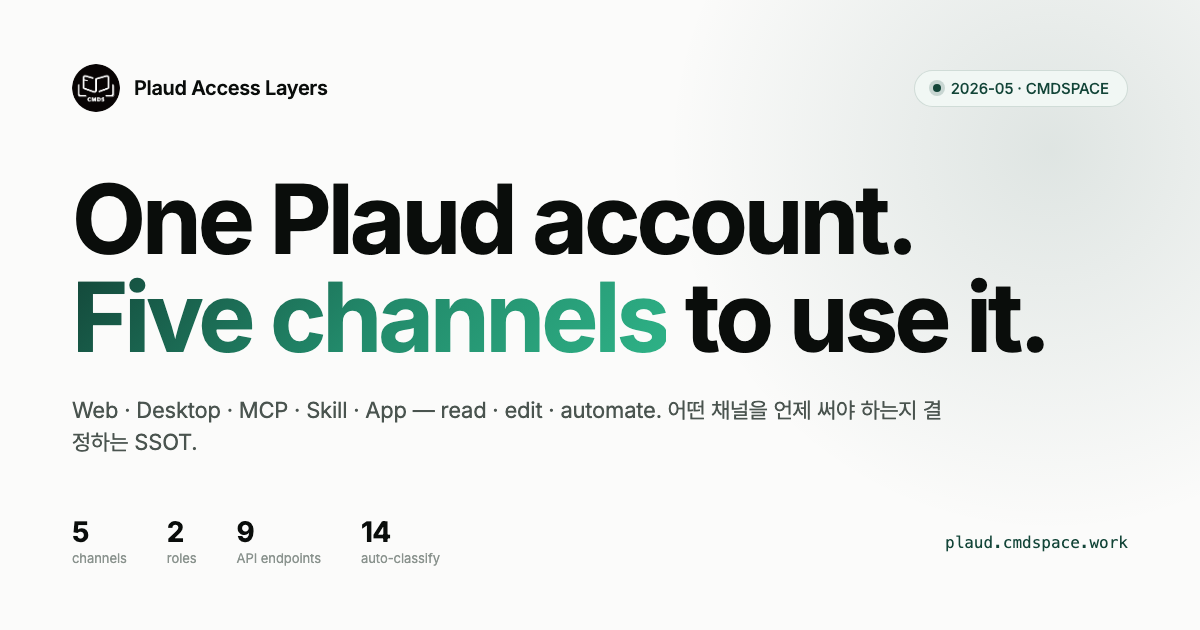
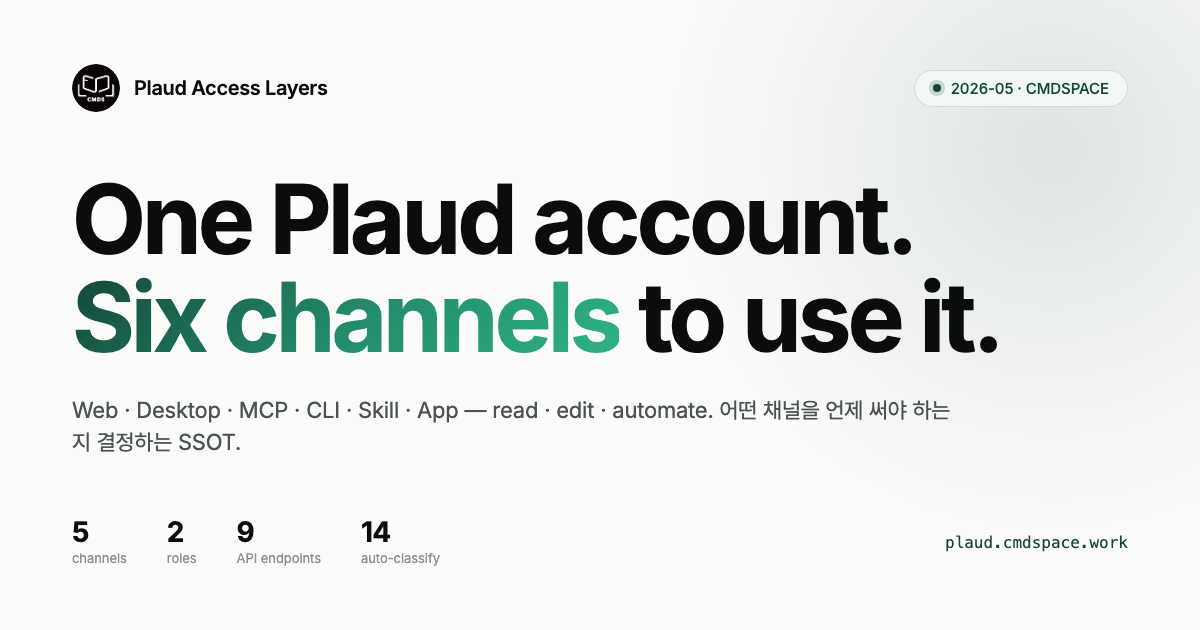
web: rebuild plaud.cmdspace.work as the 6-channel guide
랜딩이 2026-06-15 기준 5축으로 멈춰 있었다. SSOT(docs/PLAUD-ACCESS-LAYERS.md)와
같은 사실로 맞추고, 돌아온 방문자가 무엇이 바뀌었는지 알 수 있게 변경점 절을 추가.

- 6채널: 채널 표에 공식 CLI 행 삽입(NEW 배지), MCP 행에 2026-09 확장 반영,
  App 행에 v0.8 2단계 자동 폴더링. 히어로·능력 매트릭스·라우팅·워크플로우 갱신
- "What changed" 절 신설: 08-24 CLI · 09-02 MCP 확장 · 09-03 v0.8,
  그리고 `plaud` 이름 충돌 경고 블록 (전역=공식 CLI, `uv run plaud`=이 앱)
- 링크: 전체 비교표(GitHub SSOT) CTA 버튼, 푸터에 CLI docs·GitHub 추가.
  공식 문서 URL을 현행 docs.plaud.ai/plaud-mcp-cli/… 로 교체
- OG 이미지·타이틀·메타 설명 재생성 (5축 → 6채널)

버그 수정 2건:
- 히어로 통계가 "5 channels / 9 API endpoints / 14 auto-classify" 로 낡아 있어
  6 / 2 roles / 4 official / 3 can write 로 교체
- .teaser-code 에 white-space 속성이 없어 코드 블록 줄바꿈이 전부 뭉개져
  한 문단으로 렌더되던 문제 → white-space: pre 추가 (기존부터 있던 버그)

Changed region(s): [[0.0617, 0.4222, 0.8942, 0.573], [0.2467, 0.6333, 0.8017, 0.6635], [0.0617, 0.6635, 0.185, 0.7238]]

diff --git a/web/index.html b/web/index.html
@@ -3,32 +3,32 @@
 <head>
     <meta charset="UTF-8">
     <meta name="viewport" content="width=device-width, initial-scale=1.0">
-    <title>Plaud 5축 가이드</title>
-    <meta name="description" content="Plaud Cloud에 접근하는 다섯 가지 채널 — Web, Desktop, MCP, Skill, App — 의 능력 비교와 채널 선택 가이드. Capture vs Manage 구분과 실전 워크플로우 패턴 포함.">
+    <title>Plaud 6채널 가이드</title>
+    <meta name="description" content="Plaud Cloud를 다루는 여섯 가지 채널 — Web · Desktop · MCP · CLI · Skill · App — 의 능력 비교와 채널 선택 가이드. Capture vs Manage 구분, 채널별 천장, 실전 워크플로우 패턴 포함.">
     <link rel="icon" type="image/png" href="/assets/logos/cmds-logo-round.png">
     <link rel="apple-touch-icon" href="/assets/logos/cmds-logo-round.png">
 
     <!-- Open Graph (1200×630 dedicated OG image) -->
     <meta property="og:type" content="website">
     <meta property="og:site_name" content="CMDSPACE">
-    <meta property="og:title" content="Plaud 5축 가이드">
-    <meta property="og:description" content="Plaud Cloud에 접근하는 다섯 가지 채널 — Web, Desktop, MCP, Skill, App — 의 능력 비교와 채널 선택 가이드. Capture vs Manage 구분과 실전 워크플로우 패턴 포함.">
+    <meta property="og:title" content="Plaud 6채널 가이드">
+    <meta property="og:description" content="Plaud Cloud를 다루는 여섯 가지 채널 — Web · Desktop · MCP · CLI · Skill · App — 의 능력 비교와 채널 선택 가이드. Capture vs Manage 구분, 채널별 천장, 실전 워크플로우 패턴 포함.">
     <meta property="og:url" content="https://plaud.cmdspace.work">
     <meta property="og:image" content="https://plaud.cmdspace.work/assets/og/og-web.png">
     <meta property="og:image:secure_url" content="https://plaud.cmdspace.work/assets/og/og-web.png">
     <meta property="og:image:type" content="image/png">
     <meta property="og:image:width" content="1200">
     <meta property="og:image:height" content="630">
-    <meta property="og:image:alt" content="Plaud 5축 가이드">
+    <meta property="og:image:alt" content="Plaud 6채널 가이드">
     <meta property="og:locale" content="ko_KR">
     <meta property="og:locale:alternate" content="en_US">
 
     <!-- Twitter / X -->
     <meta name="twitter:card" content="summary_large_image">
-    <meta name="twitter:title" content="Plaud 5축 가이드">
-    <meta name="twitter:description" content="Plaud Cloud에 접근하는 다섯 가지 채널 — Web, Desktop, MCP, Skill, App — 의 능력 비교와 채널 선택 가이드. Capture vs Manage 구분과 실전 워크플로우 패턴 포함.">
+    <meta name="twitter:title" content="Plaud 6채널 가이드">
+    <meta name="twitter:description" content="Plaud Cloud를 다루는 여섯 가지 채널 — Web · Desktop · MCP · CLI · Skill · App — 의 능력 비교와 채널 선택 가이드. Capture vs Manage 구분, 채널별 천장, 실전 워크플로우 패턴 포함.">
     <meta name="twitter:image" content="https://plaud.cmdspace.work/assets/og/og-web.png">
-    <meta name="twitter:image:alt" content="Plaud 5축 가이드">
+    <meta name="twitter:image:alt" content="Plaud 6채널 가이드">
 
     <link rel="stylesheet" href="https://cdn.jsdelivr.net/gh/orioncactus/pretendard@v1.3.9/dist/web/static/pretendard.min.css" />
 
@@ -722,6 +722,8 @@
             line-height: 1.7;
             color: #dfe5e2;
             overflow-x: auto;
+            white-space: pre;
+            -webkit-overflow-scrolling: touch;
         }
         .teaser-code .yaml-key { color: #5bc79d; }
         .teaser-code .yaml-str { color: #d9c7a0; }
@@ -876,13 +878,14 @@
 <header class="site-header">
     <a class="brand" href="/">
         <img class="brand-mark" src="/assets/logos/cmds-logo-round.png" alt="CMDS" width="28" height="28">
-        <span>Plaud 5축 가이드</span>
+        <span>Plaud 6채널 가이드</span>
     </a>
     <nav class="header-nav">
-        <a href="#channels">5 Channels</a>
+        <a href="#channels">6 Channels</a>
         <a href="#roles">Capture · Manage</a>
         <a href="#routing">Routing</a>
         <a href="#workflows">Workflows</a>
+        <a href="#changelog"><span class="en-only">What's new</span><span class="ko-only">변경점</span></a>
         <a href="https://web.plaud.ai" target="_blank" rel="noopener">Plaud Web ↗</a>
     </nav>
     <div class="header-actions">
@@ -900,20 +903,20 @@
     <div class="hero-bg"></div>
     <div class="hero-inner">
         <div class="hero-eyebrow">
-            <span class="en-only">Plaud Access Layers · Updated 2026-06-15</span>
-            <span class="ko-only">Plaud 접근 5축 · 2026-06-15 업데이트</span>
+            <span class="en-only">Plaud Access Layers · Updated 2026-09-03</span>
+            <span class="ko-only">Plaud 접근 6채널 · 2026-09-03 업데이트</span>
         </div>
         <h1 class="hero-title">
-            <span class="en-only">One Plaud account.<br><span class="grad">Five channels</span> to use it.</span>
-            <span class="ko-only">하나의 Plaud 계정,<br><span class="grad">다섯 가지 채널</span>로 다루는 법.</span>
+            <span class="en-only">One Plaud account.<br><span class="grad">Six channels</span> to use it.</span>
+            <span class="ko-only">하나의 Plaud 계정,<br><span class="grad">여섯 가지 채널</span>로 다루는 법.</span>
         </h1>
         <p class="hero-lede">
-            <span class="en-only">Web · Desktop · MCP · Skill · App — each channel has a different ceiling on what you can read, edit, and automate. This page is the decision SSOT for picking the right one.</span>
-            <span class="ko-only">Web · Desktop · MCP · Skill · App — 각 채널마다 읽기·편집·자동화 가능 범위가 다릅니다. 어떤 채널을 언제 써야 하는지 결정하는 SSOT.</span>
+            <span class="en-only">Web · Desktop · MCP · CLI · Skill · App — each channel has a different ceiling on what you can read, edit, and automate. Plaud shipped an official CLI in August 2026, so read-only automation no longer needs reverse engineering. This page is the decision SSOT for picking the right door.</span>
+            <span class="ko-only">Web · Desktop · MCP · CLI · Skill · App — 각 채널마다 읽기·편집·자동화 가능 범위가 다릅니다. 2026년 8월 <strong>공식 CLI</strong>가 나오면서 읽기 전용 자동화는 더 이상 리버스 엔지니어링이 필요 없어졌습니다. 어떤 채널을 언제 써야 하는지 결정하는 SSOT.</span>
         </p>
         <div class="hero-cta">
             <a class="btn btn-primary" href="#channels">
-                <span class="en-only">See the 5 channels</span><span class="ko-only">5축 비교 보기</span>
+                <span class="en-only">See the 6 channels</span><span class="ko-only">6채널 비교 보기</span>
                 <svg width="14" height="14" viewBox="0 0 24 24" fill="none" stroke="currentColor" stroke-width="2.5" stroke-linecap="round"><path d="M5 12h14M13 6l6 6-6 6"/></svg>
             </a>
             <a class="btn btn-secondary" href="#routing">
@@ -927,10 +930,10 @@
         </div>
 
         <div class="hero-meta">
-            <div class="hero-meta-item"><div class="val">5</div><div class="lbl en-only">channels</div><div class="lbl ko-only">채널</div></div>
+            <div class="hero-meta-item"><div class="val">6</div><div class="lbl en-only">channels</div><div class="lbl ko-only">채널</div></div>
             <div class="hero-meta-item"><div class="val">2</div><div class="lbl en-only">roles</div><div class="lbl ko-only">역할</div></div>
-            <div class="hero-meta-item"><div class="val">9</div><div class="lbl en-only">API endpoints</div><div class="lbl ko-only">API 엔드포인트</div></div>
-            <div class="hero-meta-item"><div class="val">14</div><div class="lbl en-only">auto-classify</div><div class="lbl ko-only">자동 분류</div></div>
+            <div class="hero-meta-item"><div class="val">4</div><div class="lbl en-only">official</div><div class="lbl ko-only">공식 채널</div></div>
+            <div class="hero-meta-item"><div class="val">3</div><div class="lbl en-only">can write</div><div class="lbl ko-only">쓰기 가능</div></div>
         </div>
     </div>
 </section>
@@ -948,25 +951,25 @@
                 </h2>
             </div>
             <div class="idea-body">
-                <p class="en-only">After Plaud announced its official MCP server (2026-05-13), three more channels became visible: a public OAuth MCP, an unofficial bash skill, and a self-hosted Python·SwiftUI app that already wraps the web API. Add the official Web and Desktop apps, and you get <em>five</em>.</p>
-                <p class="en-only">They are not interchangeable. MCP is read-only. Skill exposes content MCP can't see (markMemo, highlight). The App is the only channel that creates folders, auto-classifies recordings with AI, searches across every transcript, organizes by tags, and pushes to Obsidian. Desktop is the only channel that can <em>record live meetings</em> from system audio.</p>
-                <p class="ko-only">2026-05-13 Plaud가 공식 MCP 서버를 발표하면서 세 가지 채널이 더 가시화됐습니다 — OAuth MCP, 비공식 bash 스킬, 그리고 web API를 직접 감싸는 자체 Python·SwiftUI 앱. 거기에 공식 Web·Desktop을 더하면 <em>다섯 축</em>이 됩니다.</p>
-                <p class="ko-only">이들은 서로 대체재가 아닙니다. MCP는 read-only. 스킬은 MCP가 못 보는 콘텐츠(markMemo, highlight)를 노출합니다. 앱은 폴더 생성·AI 자동 분류·전체 전사본 검색·태그 정리·Obsidian 송출이 가능한 유일한 채널. Desktop은 시스템 오디오로 <em>회의를 실시간 녹음</em>할 수 있는 유일한 채널입니다.</p>
+                <p class="en-only">Plaud opened its official MCP server in May 2026 and an official CLI in August. Around those sit an unofficial bash skill and a self-hosted Python·SwiftUI app that wrap the web API directly. Add the official Web and Desktop apps and you get <em>six</em> — four official, two of my own.</p>
+                <p class="en-only">They are not interchangeable, and the line that matters is not official-vs-unofficial but <em>read-vs-write</em>. MCP, the CLI and the Skill cannot change a single thing on the server. Only Web, Desktop and the App write — and only the App auto-classifies with AI, searches inside every transcript, organizes by tags and pushes to Obsidian. Desktop alone can <em>record a live meeting</em> from system audio.</p>
+                <p class="ko-only">Plaud는 2026년 5월 공식 MCP 서버를, 8월엔 공식 CLI를 열었습니다. 그 옆에 web API를 직접 감싸는 비공식 bash 스킬과 자체 Python·SwiftUI 앱이 있고, 공식 Web·Desktop을 더하면 <em>여섯 채널</em> — 공식 넷, 직접 만든 둘입니다.</p>
+                <p class="ko-only">이들은 서로 대체재가 아닙니다. 그리고 진짜 경계선은 공식이냐 아니냐가 아니라 <em>읽기냐 쓰기냐</em>입니다. MCP · CLI · 스킬은 서버의 어떤 것도 바꾸지 못합니다. 쓰는 건 Web · Desktop · 앱뿐이고, AI 자동 분류 · 전사본 전체 검색 · 태그 정리 · Obsidian 송출은 앱만 할 수 있습니다. 시스템 오디오로 <em>회의를 실시간 녹음</em>하는 건 Desktop만 가능합니다.</p>
             </div>
         </div>
     </div>
 </section>
 
-<!-- ARCHITECTURE — 5 CHANNELS -->
+<!-- ARCHITECTURE — 6 CHANNELS -->
 <section class="block" id="channels">
     <div class="block-inner reveal">
         <div class="block-eyebrow">
-            <span class="en-only">The 5 Channels</span>
-            <span class="ko-only">5축</span>
+            <span class="en-only">The 6 Channels</span>
+            <span class="ko-only">6채널</span>
         </div>
         <h2 class="block-title">
-            <span class="en-only">Five doors into the <span class="accent-word">same cloud</span>.</span>
-            <span class="ko-only">같은 클라우드로 들어가는 <span class="accent-word">다섯 개의 문</span>.</span>
+            <span class="en-only">Six doors into the <span class="accent-word">same cloud</span>.</span>
+            <span class="ko-only">같은 클라우드로 들어가는 <span class="accent-word">여섯 개의 문</span>.</span>
         </h2>
         <p class="block-lede">
             <span class="en-only">Each row shows where the channel lives, how it authenticates, and what its primary surface looks like. Tagged ✅ for official Plaud surfaces and ⚠ for unofficial reverse-engineered ones.</span>
@@ -996,13 +999,22 @@
                 <div class="file-precedence">3</div>
                 <div>
                     <div class="file-name"><code>MCP</code><span class="file-tag">✅ Official</span></div>
-                    <div class="file-desc en-only"><code>mcp__plaud__*</code> via Claude Code / Cursor / Zed — OAuth, read-only, 7 tools.</div>
-                    <div class="file-desc ko-only">Claude Code · Cursor · Zed 등에서 호출하는 <code>mcp__plaud__*</code> — OAuth, read-only, 7개 도구.</div>
+                    <div class="file-desc en-only"><code>mcp__plaud__*</code> via Claude Code / Cursor / Zed — OAuth, read-only, 7 tools. Quietly expanded in 2026-09: <code>get_transcript</code> gained a <code>block</code> parameter (polished transcript with <em>real speaker names</em>, outline, markMemo) with pagination, and <code>get_note</code> now returns every tab.</div>
+                    <div class="file-desc ko-only">Claude Code · Cursor · Zed 등에서 호출하는 <code>mcp__plaud__*</code> — OAuth, 읽기 전용, 7개 도구. 2026-09 조용히 확장: <code>get_transcript</code>에 <code>block</code> 파라미터(정제 전사 — <em>화자 실명</em> 포함 · 아웃라인 · markMemo)와 페이지네이션이, <code>get_note</code>에 탭 전량 반환이 추가됐습니다.</div>
                 </div>
                 <div class="file-audience">Manage (LLM)</div>
             </div>
             <div class="file-row">
                 <div class="file-precedence">4</div>
+                <div>
+                    <div class="file-name"><code>CLI</code><span class="file-tag">✅ Official</span><span class="file-tag" style="background: color-mix(in srgb, var(--cmds-green) 14%, transparent);">NEW · 2026-08</span></div>
+                    <div class="file-desc en-only"><code>@plaud-ai/cli</code> (npm, v0.3.11) — 13 commands on the <em>official developer API</em> (<code>platform.plaud.ai</code>), OAuth, read-only. The only official way to script Plaud from a terminal, cron job, or headless server.</div>
+                    <div class="file-desc ko-only"><code>@plaud-ai/cli</code> (npm, v0.3.11) — <em>공식 개발자 API</em>(<code>platform.plaud.ai</code>) 위의 13개 명령, OAuth, 읽기 전용. 터미널·크론·헤드리스 서버에서 Plaud를 스크립팅하는 <strong>유일한 공식 수단</strong>.</div>
+                </div>
+                <div class="file-audience">Manage (shell)</div>
+            </div>
+            <div class="file-row">
+                <div class="file-precedence">5</div>
                 <div>
                     <div class="file-name"><code>Skill</code><span class="file-tag" style="background: color-mix(in srgb, var(--cmds-green) 10%, transparent);">⚠ Unofficial</span></div>
                     <div class="file-desc en-only"><code>~/.claude/skills/plaud-cloud-tools/</code> — bash wrappers over the captured web cURL. Exposes markMemo · highlight that MCP can't.</div>
@@ -1011,11 +1023,11 @@
                 <div class="file-audience">Manage (CLI)</div>
             </div>
             <div class="file-row">
-                <div class="file-precedence">5</div>
+                <div class="file-precedence">6</div>
                 <div>
                     <div class="file-name"><code>App</code><span class="file-tag" style="background: color-mix(in srgb, var(--cmds-green) 10%, transparent);">⚠ Unofficial</span></div>
-                    <div class="file-desc en-only"><code>~/DEV/plaud-note-manager/</code> — Python CLI + SwiftUI macOS app. The only write-capable channel: folder CRUD, title &amp; server-transcript speaker rename, safe AI auto-classify (preview + undo), full-content search (FTS5, Korean substring), tag organization, multi-model AI summaries (Claude/Codex/Gemini/Grok via subscription), and Obsidian export.</div>
-                    <div class="file-desc ko-only"><code>~/DEV/plaud-note-manager/</code> — Python CLI + SwiftUI macOS 앱. 쓰기 권한을 가진 유일한 비공식 채널: 폴더 CRUD · 제목/서버 전사본 화자 변경 · 안전한 AI 자동 분류(미리보기·되돌리기) · 전체 내용 검색(FTS5, 한국어 부분 일치) · 태그 정리 · 멀티모델 AI 요약(Claude·Codex·Gemini·Grok 구독 활용) · Obsidian 송출.</div>
+                    <div class="file-desc en-only"><code>~/DEV/plaud-note-manager/</code> — Python CLI + SwiftUI macOS app. The only write-capable channel: folder CRUD, title &amp; server-transcript speaker rename, safe AI auto-classify (preview + undo), full-content search (FTS5, Korean substring), tag organization, multi-model AI summaries (Claude/Codex/Gemini/Grok via subscription), and Obsidian export. v0.8 (2026-09) made auto-foldering two-stage — deterministic rules first, an LLM arbitrating only low-confidence cases from a closed folder menu.</div>
+                    <div class="file-desc ko-only"><code>~/DEV/plaud-note-manager/</code> — Python CLI + SwiftUI macOS 앱. 쓰기 권한을 가진 유일한 비공식 채널: 폴더 CRUD · 제목/서버 전사본 화자 변경 · 안전한 AI 자동 분류(미리보기·되돌리기) · 전체 내용 검색(FTS5, 한국어 부분 일치) · 태그 정리 · 멀티모델 AI 요약(Claude·Codex·Gemini·Grok 구독 활용) · Obsidian 송출. v0.8(2026-09)에서 자동 폴더링이 2단계로 — 규칙이 먼저 판단하고, 확신이 낮을 때만 LLM이 <em>정해진 폴더 메뉴 안에서</em> 중재합니다.</div>
                 </div>
                 <div class="file-audience">Manage + Power</div>
             </div>
@@ -1063,10 +1075,10 @@
             </div>
             <div class="process-stage">
                 <div class="stage-dot">M</div>
-                <div class="stage-name">Web · MCP · Skill · App</div>
+                <div class="stage-name">Web · MCP · CLI · Skill · App</div>
                 <div class="stage-category">Manage only</div>
-                <div class="stage-desc en-only">Browse, read, summarize, classify, export. Cannot create new recordings.</div>
-                <div class="stage-desc ko-only">브라우징 · 읽기 · 요약 · 분류 · 송출. 신규 녹음 생성은 불가.</div>
+                <div class="stage-desc en-only">Browse, read, summarize, classify, export. Five of the six channels can never create a recording.</div>
+                <div class="stage-desc ko-only">브라우징 · 읽기 · 요약 · 분류 · 송출. 6채널 중 5개는 신규 녹음을 만들 수 없습니다.</div>
             </div>
         </div>
     </div>
@@ -1091,12 +1103,13 @@
                 </div>
                 <div class="aud-title en-only">Read — everyone reads, but unevenly</div>
                 <div class="aud-title ko-only">읽기 — 모두가 읽지만 깊이가 다름</div>
-                <p class="aud-desc en-only">List · transcript · AI summary are universal. highlight · markMemo · sum_multi_note are exposed by Skill / App but hidden by MCP. Outline is only partially exposed by MCP (raw via get_file). Folder tree visible to Web / Desktop / App only.</p>
-                <p class="aud-desc ko-only">파일 리스트 · 트랜스크립트 · AI 요약은 보편. highlight · markMemo · 다중 요약은 Skill / App만 노출, MCP는 숨김. Outline은 MCP에서 부분 노출(get_file 원본 경유). 폴더 트리는 Web · Desktop · App만 가시.</p>
+                <p class="aud-desc en-only">List · transcript · AI summary are universal — the official CLI covers exactly this much. Depth differs above that line: MCP now reads polished transcripts, outline and markMemo through its <code>block</code> parameter, and every note tab. Folder tree stays visible to Web / Desktop / App only, and body-text search exists only in the App.</p>
+                <p class="aud-desc ko-only">파일 리스트 · 트랜스크립트 · AI 요약은 보편 — 공식 CLI가 커버하는 범위가 딱 여기까지입니다. 그 위부터 깊이가 갈립니다: MCP는 <code>block</code> 파라미터로 정제 전사 · 아웃라인 · markMemo를, <code>get_note</code>로 모든 탭을 읽습니다. 폴더 트리는 Web · Desktop · App만, 본문 검색은 App만.</p>
                 <ul class="aud-list">
-                    <li>✅ <span class="en-only">All 5 — transcripts, summaries</span><span class="ko-only">5축 모두 — 트랜스크립트 · 요약</span></li>
-                    <li>⚠ <span class="en-only">Skill / App only — markMemo, highlight</span><span class="ko-only">Skill · App만 — markMemo · highlight</span></li>
-                    <li>⚠ <span class="en-only">Web / Desktop / App — folder tree</span><span class="ko-only">Web · Desktop · App — 폴더 트리</span></li>
+                    <li>✅ <span class="en-only">All 6 — transcripts, summaries</span><span class="ko-only">6채널 모두 — 트랜스크립트 · 요약</span></li>
+                    <li>✅ <span class="en-only">MCP — polished transcript with real speaker names, all note tabs</span><span class="ko-only">MCP — 화자 실명 정제 전사 · 노트 전 탭</span></li>
+                    <li>⚠ <span class="en-only">Skill / App / MCP — markMemo &amp; highlight (MCP: only if the button was pressed)</span><span class="ko-only">Skill · App · MCP — markMemo · highlight (MCP는 버튼을 누른 녹음만)</span></li>
+                    <li>⚠ <span class="en-only">Web / Desktop / App — folder tree · App only — body-text search</span><span class="ko-only">Web · Desktop · App — 폴더 트리 · App만 — 본문 검색</span></li>
                     <li>⚠ <span class="en-only">Desktop / Web — Ask Plaud (cited Q&A)</span><span class="ko-only">Desktop · Web — Ask Plaud (인용 Q&A)</span></li>
                 </ul>
             </div>
@@ -1104,15 +1117,15 @@
                 <div class="aud-icon">
                     <svg viewBox="0 0 24 24" fill="none" stroke="currentColor" stroke-width="2" stroke-linecap="round" stroke-linejoin="round"><path d="M11 4H4a2 2 0 0 0-2 2v14a2 2 0 0 0 2 2h14a2 2 0 0 0 2-2v-7"/><path d="M18.5 2.5a2.121 2.121 0 0 1 3 3L12 15l-4 1 1-4 9.5-9.5z"/></svg>
                 </div>
-                <div class="aud-title en-only">Write — only 3 of 5 can write</div>
-                <div class="aud-title ko-only">쓰기 — 5축 중 3축만 가능</div>
-                <p class="aud-desc en-only">Web and Desktop have full edit (rename, folder CRUD, speaker labels, delete). App matches rename + folder, renames speakers in the <em>server transcript</em>, and is the <em>only</em> channel that adds AI auto-classification, full-content search, and tag organization. MCP and Skill are read-only.</p>
-                <p class="aud-desc ko-only">Web · Desktop은 풀 편집 (제목 · 폴더 CRUD · 스피커 라벨 · 삭제). 앱은 제목 · 폴더에 더해 <em>서버 전사본</em> 화자 변경, 그리고 AI 자동 분류 · 전체 내용 검색 · 태그 정리는 <em>유일</em>. MCP · Skill은 read-only.</p>
+                <div class="aud-title en-only">Write — only 3 of 6 can write</div>
+                <div class="aud-title ko-only">쓰기 — 6채널 중 3개만 가능</div>
+                <p class="aud-desc en-only">Web and Desktop have full edit (rename, folder CRUD, speaker labels, delete). App matches rename + folder, renames speakers in the <em>server transcript</em>, and is the <em>only</em> channel that adds AI auto-classification, full-content search, and tag organization. MCP, the official CLI and the Skill are all read-only — no channel outside Web / Desktop / App can change anything on the server.</p>
+                <p class="aud-desc ko-only">Web · Desktop은 풀 편집 (제목 · 폴더 CRUD · 스피커 라벨 · 삭제). 앱은 제목 · 폴더에 더해 <em>서버 전사본</em> 화자 변경, 그리고 AI 자동 분류 · 전체 내용 검색 · 태그 정리는 <em>유일</em>. MCP · 공식 CLI · Skill은 모두 읽기 전용 — Web · Desktop · App 밖에서는 서버의 어떤 것도 바꿀 수 없습니다.</p>
                 <ul class="aud-list">
                     <li>✅ <span class="en-only">Web · Desktop — full edit</span><span class="ko-only">Web · Desktop — 풀 편집</span></li>
                     <li>✅ <span class="en-only">App — rename · folder CRUD · move · speaker rename</span><span class="ko-only">App — 제목 변경 · 폴더 CRUD · 이동 · 화자 변경</span></li>
                     <li>⭐ <span class="en-only">App only — safe AI auto-classify (preview + undo) · full-content search · tags</span><span class="ko-only">App만 — 안전한 AI 자동 분류(미리보기·되돌리기) · 전체 내용 검색 · 태그</span></li>
-                    <li>❌ <span class="en-only">MCP · Skill — no write at all</span><span class="ko-only">MCP · Skill — 쓰기 0건</span></li>
+                    <li>❌ <span class="en-only">MCP · CLI · Skill — no write at all</span><span class="ko-only">MCP · CLI · Skill — 쓰기 0건</span></li>
                 </ul>
             </div>
         </div>
@@ -1139,6 +1152,8 @@
             <div class="cat-cell"><div class="cat-num" style="font-size: 14px;">Capture</div><div class="cat-name">Online meeting</div><div class="cat-sub">Desktop (Zoom · Meet · Teams 자동 감지 + 시스템 오디오)</div></div>
             <div class="cat-cell"><div class="cat-num" style="font-size: 14px;">Capture</div><div class="cat-name">In-person talk</div><div class="cat-sub">Plaud Note HW (디바이스 휴대)</div></div>
             <div class="cat-cell"><div class="cat-num" style="font-size: 14px;">Browse</div><div class="cat-name">"최근 녹음 / 요약"</div><div class="cat-sub">MCP (Claude 대화 중 자연어 호출)</div></div>
+            <div class="cat-cell"><div class="cat-num" style="font-size: 14px;">Script</div><div class="cat-name">크론 · 배치로 파일 뽑기</div><div class="cat-sub">CLI (공식) — <code>plaud summary &lt;id&gt; -o out.md</code></div></div>
+            <div class="cat-cell"><div class="cat-num" style="font-size: 14px;">Script</div><div class="cat-name">헤드리스 서버 · 공식 경로만</div><div class="cat-sub">CLI (리버스 엔지니어링 없이 OAuth로)</div></div>
             <div class="cat-cell"><div class="cat-num" style="font-size: 14px;">Browse</div><div class="cat-name">GUI 빠른 탐색</div><div class="cat-sub">Desktop 또는 Web (Ask Plaud 인용 Q&A 포함)</div></div>
             <div class="cat-cell"><div class="cat-num" style="font-size: 14px;">Edit</div><div class="cat-name">제목 / 폴더 변경</div><div class="cat-sub">Web · Desktop · App (셋 다 가능)</div></div>
             <div class="cat-cell"><div class="cat-num" style="font-size: 14px;">Edit</div><div class="cat-name">스피커 라벨</div><div class="cat-sub">Web 또는 Desktop (Plaud 서버 반영)</div></div>
@@ -1160,8 +1175,8 @@
             <span class="ko-only">실전 조합 패턴</span>
         </div>
         <h2 class="block-title">
-            <span class="en-only">A full meeting workflow <span class="accent-word">stitches all five</span>.</span>
-            <span class="ko-only">제대로 된 회의 워크플로우는 <span class="accent-word">5축을 모두</span> 엮습니다.</span>
+            <span class="en-only">A full meeting workflow <span class="accent-word">stitches several</span>.</span>
+            <span class="ko-only">제대로 된 회의 워크플로우는 <span class="accent-word">여러 채널을</span> 엮습니다.</span>
         </h2>
         <p class="block-lede">
             <span class="en-only">No single channel covers a serious workflow end-to-end. The fluent pattern is to <em>chain</em> them — each channel doing what it's best at.</span>
@@ -1186,9 +1201,70 @@ $ <span class="yaml-key">uv run plaud meeting-note</span> 07a961a46137012b9e1928
 <span class="yaml-com"># 4) MCP — Claude 대화 중 follow-up 이메일 초안</span>
 <span class="yaml-str">"이 회의로 follow-up 이메일 만들어줘"</span>  <span class="yaml-com"># → plaud-followup 자동 라우팅</span>
 
-<span class="yaml-com"># 5) Web — 외부 메모/노션에 박을 영구 URL</span>
+<span class="yaml-com"># 5) CLI(공식) — 크론으로 매일 요약본만 따로 아카이브</span>
+$ <span class="yaml-key">plaud today</span> --json | jq -r <span class="yaml-str">'.[].id'</span> \
+    | xargs -I{} <span class="yaml-key">plaud summary</span> {} -o ~/archive/{}.md
+<span class="yaml-com"># ↑ 전역 `plaud` = 공식 CLI · `uv run plaud` = 이 앱 (이름이 겹칩니다)</span>
+<span class="yaml-com"># 6) Web — 외부 메모/노션에 박을 영구 URL</span>
 $ <span class="yaml-key">uv run plaud web</span> 07a961a4... --copy
 <span class="yaml-str">https://web.plaud.ai/file/07a961a46137012b9e1928bb9c088f6c</span></div>
+        </div>
+    </div>
+</section>
+
+<!-- WHAT CHANGED -->
+<section class="block reveal" id="changelog" style="padding-top: 0;">
+    <div class="block-inner">
+        <div class="block-eyebrow">
+            <span class="en-only">What changed · Aug–Sep 2026</span>
+            <span class="ko-only">무엇이 바뀌었나 · 2026년 8–9월</span>
+        </div>
+        <h2 class="block-title">
+            <span class="en-only">This page said <span class="accent-word">five</span> for three months.</span>
+            <span class="ko-only">이 페이지는 석 달 동안 <span class="accent-word">다섯</span>이라고 적혀 있었습니다.</span>
+        </h2>
+        <p class="block-lede">
+            <span class="en-only">Two of the changes below arrived without an announcement — the tool count stayed the same while the tools themselves grew. If you built on this page earlier, these are the lines that moved.</span>
+            <span class="ko-only">아래 변화 중 둘은 공지 없이 왔습니다 — 도구 <em>개수</em>는 그대로인데 도구 <em>내부</em>가 넓어진 형태로. 이전 버전을 보고 설계하셨다면, 바뀐 건 이 줄들입니다.</span>
+        </p>
+        <div class="files-stack">
+            <div class="file-row">
+                <div class="file-precedence" style="font-size: 12px;">08-24</div>
+                <div>
+                    <div class="file-name"><code>CLI</code><span class="file-tag">✅ 신규 공식 채널</span></div>
+                    <div class="file-desc en-only">Plaud shipped <code>@plaud-ai/cli</code> on an official developer API. Read-only automation — list, transcript, summary, audio URL, search — no longer requires reverse engineering. Every "5 channels" doc became wrong that day.</div>
+                    <div class="file-desc ko-only">Plaud가 공식 개발자 API 위에서 <code>@plaud-ai/cli</code>를 출시. 읽기 전용 자동화(목록 · 전사 · 요약 · 오디오 URL · 검색)에 더는 리버스 엔지니어링이 필요 없어졌습니다. 이날부로 "5축" 문서는 전부 틀린 문서가 됐습니다.</div>
+                </div>
+                <div class="file-audience">신규</div>
+            </div>
+            <div class="file-row">
+                <div class="file-precedence" style="font-size: 12px;">09-02</div>
+                <div>
+                    <div class="file-name"><code>MCP</code><span class="file-tag">확장</span></div>
+                    <div class="file-desc en-only">Still 7 tools, but two of them grew. <code>get_transcript</code> takes a <code>block</code> (<code>transaction_polish</code> · <code>outline</code> · <code>mark_memo</code>) plus cursor pagination, and the polished block carries <strong>real speaker names</strong>. <code>get_note</code> returns every tab, template tabs included. Verified by live calls, not by docs.</div>
+                    <div class="file-desc ko-only">도구는 여전히 7개지만 그중 둘이 넓어졌습니다. <code>get_transcript</code>가 <code>block</code>(<code>transaction_polish</code> · <code>outline</code> · <code>mark_memo</code>)과 커서 페이지네이션을 받고, 정제 블록에는 <strong>화자 실명</strong>이 실려 옵니다. <code>get_note</code>는 템플릿 탭까지 전 탭을 반환합니다. 문서가 아니라 라이브 호출로 확인한 사실.</div>
+                </div>
+                <div class="file-audience">확장</div>
+            </div>
+            <div class="file-row">
+                <div class="file-precedence" style="font-size: 12px;">09-03</div>
+                <div>
+                    <div class="file-name"><code>App</code><span class="file-tag" style="background: color-mix(in srgb, var(--cmds-green) 10%, transparent);">v0.8</span></div>
+                    <div class="file-desc en-only">Auto-foldering became two-stage: deterministic rules decide first, and an LLM arbitrates only the low-confidence cases — choosing from a closed folder menu so it can never invent a destination. Placement still requires an explicit apply step.</div>
+                    <div class="file-desc ko-only">자동 폴더링이 2단계가 됐습니다. 규칙이 먼저 판단하고, 확신이 낮은 건에 대해서만 LLM이 <em>정해진 폴더 메뉴 안에서</em> 중재합니다 — 없는 폴더를 지어낼 수 없는 구조. 실제 배치는 여전히 명시적 적용 단계를 거칩니다.</div>
+                </div>
+                <div class="file-audience">v0.8</div>
+            </div>
+        </div>
+        <div class="teaser-box" style="margin-top: 28px;">
+            <div class="teaser-tabs">
+                <button class="teaser-tab active">⚠ name collision</button>
+            </div>
+            <div class="teaser-code"><span class="yaml-com"># 공식 CLI와 이 앱의 실행 명령이 둘 다 `plaud` 입니다.</span>
+<span class="yaml-com"># transcript · summary · search 는 이름이 같고 동작이 다릅니다.</span>
+$ <span class="yaml-key">plaud</span> summary &lt;id&gt;           <span class="yaml-com"># → 전역 npm, 공식 CLI (읽기 전용)</span>
+$ <span class="yaml-key">uv run plaud</span> summary &lt;id&gt;    <span class="yaml-com"># → 이 저장소의 앱 (쓰기·분류·볼트 송출)</span>
+<span class="yaml-com"># 앱 명령에는 항상 `uv run` 을 붙이세요.</span></div>
         </div>
     </div>
 </section>
@@ -1201,8 +1277,8 @@ $ <span class="yaml-key">uv run plaud web</span> 07a961a4... --copy
             <span class="ko-only">알맞은 문을 고르세요.<br>필요하면 엮으세요.</span>
         </h2>
         <p class="cta-lede">
-            <span class="en-only">Full source-of-truth doc lives in the App repo. Summary lives in the Obsidian vault. Both are linked below so you can pick up from either side next session.</span>
-            <span class="ko-only">상세 SSOT는 App 저장소에, 요약본은 Obsidian 볼트에 있습니다. 두 경로 다 아래 링크 — 다음 세션은 어느 쪽에서도 이어가실 수 있어요.</span>
+            <span class="en-only">The full matrix — every read/write capability per channel, endpoint mappings, auth notes — lives in the open-source repo below. This page is its readable summary.</span>
+            <span class="ko-only">채널별 읽기·쓰기 능력 전체 표, 엔드포인트 매핑, 인증 노트까지 담긴 상세 SSOT는 아래 오픈소스 저장소에 있습니다. 이 페이지는 그 요약본입니다.</span>
         </p>
         <div class="cta-buttons">
             <a class="btn-white" href="https://web.plaud.ai" target="_blank" rel="noopener">
@@ -1212,7 +1288,10 @@ $ <span class="yaml-key">uv run plaud web</span> 07a961a4... --copy
             <a class="btn-outline" href="https://www.plaud.ai/pages/plaud-desktop" target="_blank" rel="noopener">
                 <span class="en-only">Get Desktop</span><span class="ko-only">Desktop 받기</span>
             </a>
-            <a class="btn-outline" href="https://docs.plaud.ai/mcp" target="_blank" rel="noopener">Plaud MCP docs ↗</a>
+            <a class="btn-outline" href="https://github.com/johnfkoo951/plaud-note-manager/blob/main/docs/PLAUD-ACCESS-LAYERS.md" target="_blank" rel="noopener">
+                <span class="en-only">Full matrix (SSOT) ↗</span><span class="ko-only">전체 비교표 (SSOT) ↗</span>
+            </a>
+            <a class="btn-outline" href="https://docs.plaud.ai/plaud-mcp-cli/mcp" target="_blank" rel="noopener">Plaud MCP docs ↗</a>
         </div>
     </div>
 </section>
@@ -1236,7 +1315,10 @@ $ <span class="yaml-key">uv run plaud web</span> 07a961a4... --copy
         <div class="footer-links">
             <a href="https://cmdspace.work" target="_blank" rel="noopener">cmdspace.work</a>
             <a href="https://web.plaud.ai" target="_blank" rel="noopener">Plaud Web ↗</a>
-            <a href="https://docs.plaud.ai/mcp" target="_blank" rel="noopener">MCP docs ↗</a>
+            <a href="https://docs.plaud.ai/plaud-mcp-cli/mcp" target="_blank" rel="noopener">MCP docs ↗</a>
+            <a href="https://docs.plaud.ai/plaud-mcp-cli/cli" target="_blank" rel="noopener">CLI docs ↗</a>
+            <a href="https://www.npmjs.com/package/@plaud-ai/cli" target="_blank" rel="noopener">Official CLI ↗</a>
+            <a href="https://github.com/johnfkoo951/plaud-note-manager" target="_blank" rel="noopener">GitHub ↗</a>
             <a href="https://www.plaud.ai/pages/plaud-desktop" target="_blank" rel="noopener">Desktop ↗</a>
         </div>
     </div>

diff --git a/web/assets/og/templates/og-web.html b/web/assets/og/templates/og-web.html
@@ -145,10 +145,10 @@ body::before {
 
 <div class="main">
     <h1 class="title">
-        One Plaud account.<br><span class="accent">Five channels</span> to use it.
+        One Plaud account.<br><span class="accent">Six channels</span> to use it.
     </h1>
     <p class="lede">
-        Web · Desktop · MCP · Skill · App — read · edit · automate. 어떤 채널을 언제 써야 하는지 결정하는 SSOT.
+        Web · Desktop · MCP · CLI · Skill · App — read · edit · automate. 어떤 채널을 언제 써야 하는지 결정하는 SSOT.
     </p>
 </div>
 

diff --git a/web/README.md b/web/README.md
@@ -1,6 +1,6 @@
 # plaud.cmdspace.work
 
-> Public landing page for the **Plaud 5축 가이드** — Web · Desktop · MCP · Skill · App.
+> Public landing page for the **Plaud 6채널 가이드** — Web · Desktop · MCP · CLI · Skill · App.
 > Lives as a `web/` subfolder of the main `plaud-note-manager` repo so that the page, the App code, and the docs travel together.
 
 - **Live**: <https://plaud.cmdspace.work>
@@ -8,7 +8,7 @@
 - **DNS**: Cloudflare zone `cmdspace.work` · `CNAME plaud → cname.vercel-dns.com` (proxied=False)
 - **Template**: cmdspace-web-builder v4.3 Landing
 - **Content SSOT**: [`../docs/PLAUD-ACCESS-LAYERS.md`](../docs/PLAUD-ACCESS-LAYERS.md)
-- **Obsidian summary**: `00. Inbox/03. AI Agent/03-1. Claude Code (MBP)/2026-05-20-plaud-access-layers.md`
+- **Obsidian summary**: `70. Outputs/74. Projects/Plaud Note Manager/2026-05-20-plaud-access-layers.md` (2026-05 이후 이동됨)
 
 ## Edit & redeploy
 
